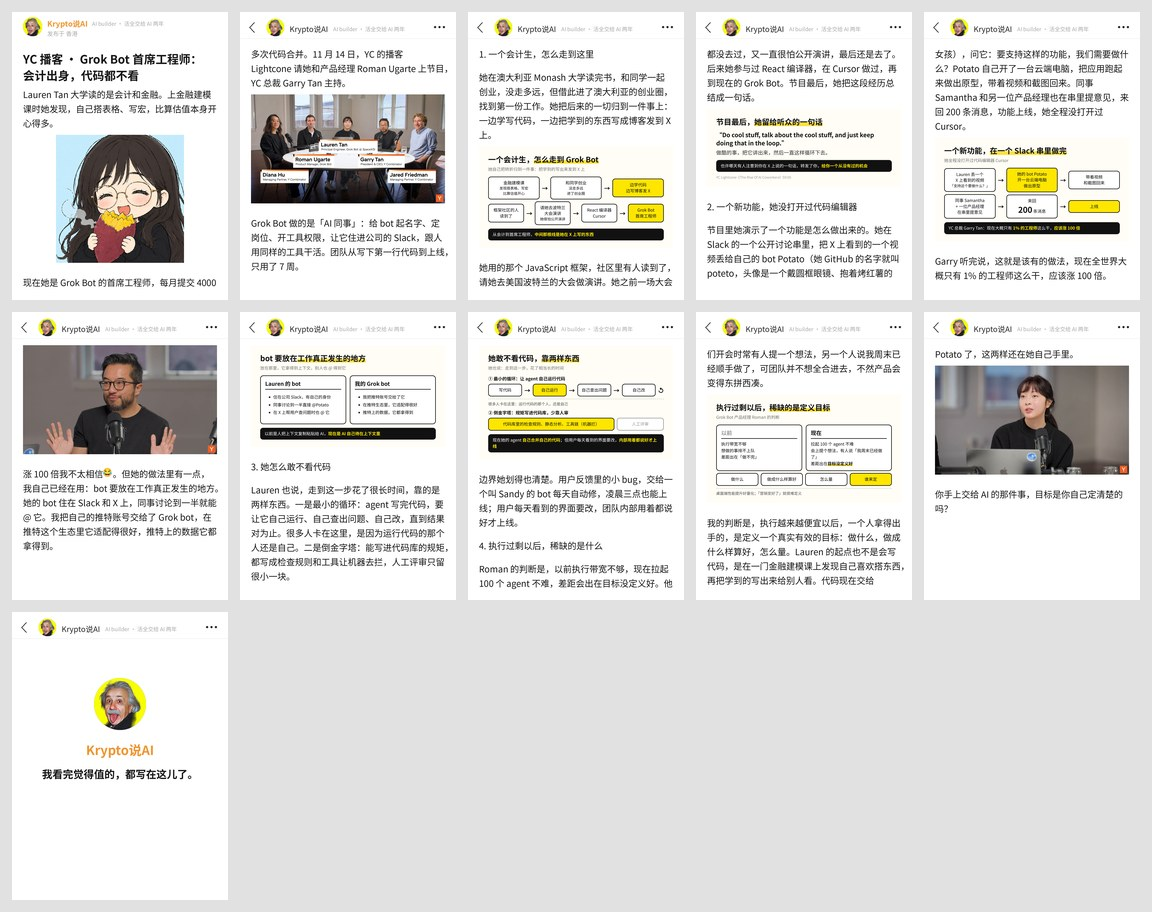
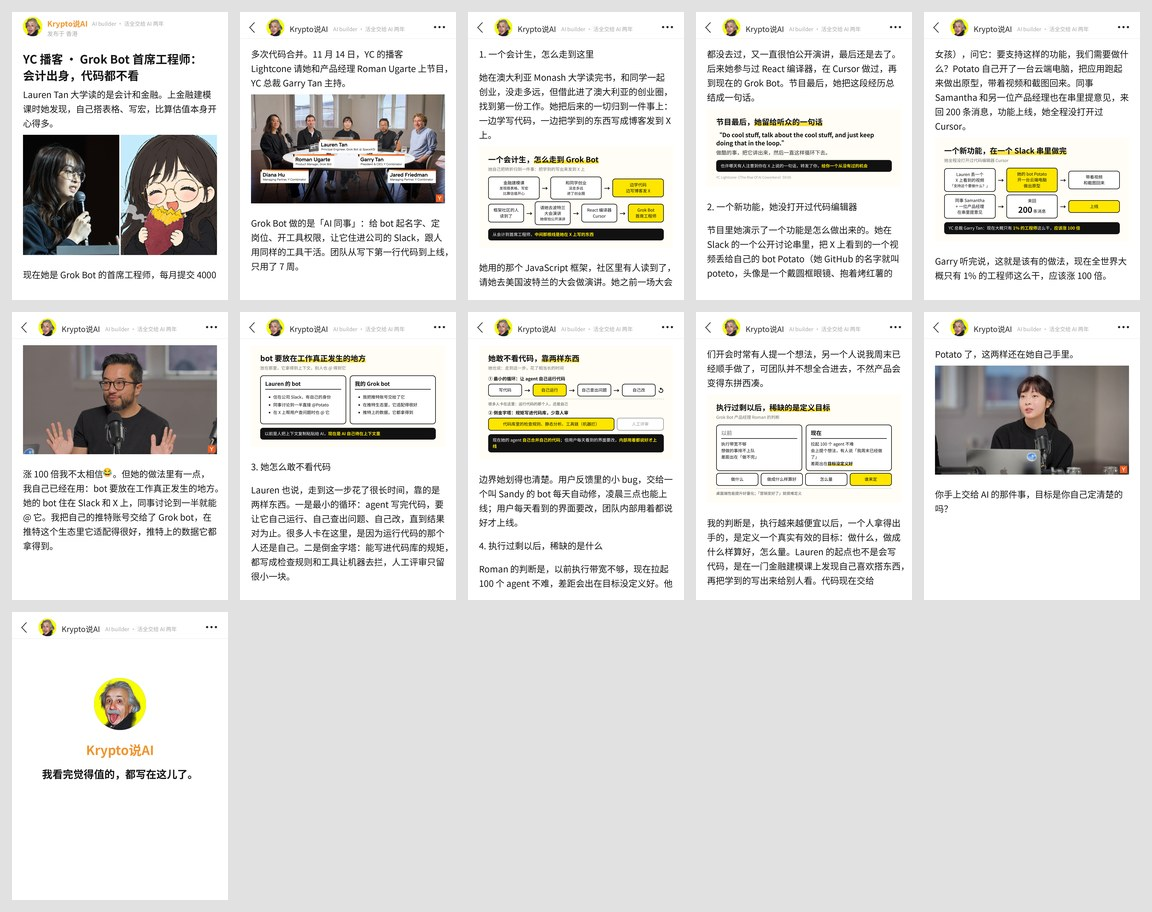
YC Grok Bot 稿：首图拼 React Conf 真人照 + GitHub 动漫头像
Claude-Session: https://claude.ai/code/session_01NaeRTaNK7GFJasw3XzAhi3

Changed region(s): [[0.0, 0.1228, 0.1875, 0.3377]]

diff --git a/CLAUDE.md b/CLAUDE.md
@@ -3,7 +3,7 @@
 这个仓库是小红书账号 **Krypto说AI** 的工作区，也是它的记忆。在这里做的每一篇稿子，先读本页，再读 `账号/档案.md`、`账号/经历库.md` 和 `账号/爆文方法论.md`（10-14 起，选题 / 标题 / 首图 / 原文跟发的发前清单，交付时逐条写过没过）。每次用户说了新的经历、新的观点、新的规则，写回这两份文件并更新本页摘要，不要只留在对话里。
 
 ## 摘要
-- **11-15 YC Lightcone《The Rise Of AI Coworkers》Grok Bot 稿（meme-v2，retell，value 信息 + 框架，立场 D，goal 涨粉，`发布/2026-11-15_yc-grok-bot-coworkers/meme-v2版/`，10 页 + 名片卡，待用户看）**：素材是用户发来的 YC 11-14 播客打包（60 分钟转录 + 20 张 4K 截帧）。先问用户答三条：推特账号交给了 Grok bot，推特生态里它适配好、拿得到数据（经历库 #45）；不信「1% 的工程师应该涨 100 倍」，认同「定义真实有效的目标」（观点库 #38）；主线选 Lauren Tan 转行故事（英文圈很火）。其余默认。起法是主角当年的时刻（金融建模课上发现更爱搭表格写宏），跟上一篇（公众争论）不同。四点：会计生怎么走到这里（`path.png` + 原话卡 `quote.png`）/ 200 条 Slack 消息做完一个功能没开 Cursor（`thread.png` + Garry 截帧）+ 我的推特 Grok bot 对上「bot 放在工作发生的地方」（`where.png`）/ 最小循环 + 倒金字塔（`loop.png`）/ Roman：执行过剩、稀缺的是定义目标（`goal.png`）→ 判断 → 问读者。字幕条上她的头衔是「Principal Engineer, Grok Bot @ SpaceXSI」（看不清），稿里不写 SpaceX / 马斯克。check 0 ✗ 8 ⚠（954 字偏短、专名 / 数字密度是人物访谈稿常态）。标题「Grok首席工程师：会计出身，代码都不看」（20 字）。**用户 11-15 问「首页为什么变成黑底黄字，之前数据显示素材原图更好」**：对，黑底黄字是 a16z 稿被退后我自己做的版式、这篇照搬了；11-10 复盘 v3 大字报首图 8.2% 到 11.3%，爆款首页都是标题 + 两段 + 素材里一张清楚的脸 → 换成 Lauren 近景原截帧 `hero_raw.jpg`（只裁、不加字），黑底版存 `hero_黑底黄字_弃用.jpg`。**用户再改（11-15）：原截帧没冲击力，要她广为流传的「齐刘海 + 圆框眼镜」形象** → 首图换成她 GitHub（poteto）头像插画 `hero_avatar.jpg`（原图 `avatar_github_poteto.png` 460px，放大到 1000），正文 Potato 处补一句「她 GitHub 的名字就叫 poteto，头像是戴圆框眼镜、抱着烤红薯的女孩」。**以后首图默认用素材原图（截帧 / 原文图），只裁剪放大脸，不叠色块大字；机构名和身份写进 headline**
+- **11-15 YC Lightcone《The Rise Of AI Coworkers》Grok Bot 稿（meme-v2，retell，value 信息 + 框架，立场 D，goal 涨粉，`发布/2026-11-15_yc-grok-bot-coworkers/meme-v2版/`，10 页 + 名片卡，待用户看）**：素材是用户发来的 YC 11-14 播客打包（60 分钟转录 + 20 张 4K 截帧）。先问用户答三条：推特账号交给了 Grok bot，推特生态里它适配好、拿得到数据（经历库 #45）；不信「1% 的工程师应该涨 100 倍」，认同「定义真实有效的目标」（观点库 #38）；主线选 Lauren Tan 转行故事（英文圈很火）。其余默认。起法是主角当年的时刻（金融建模课上发现更爱搭表格写宏），跟上一篇（公众争论）不同。四点：会计生怎么走到这里（`path.png` + 原话卡 `quote.png`）/ 200 条 Slack 消息做完一个功能没开 Cursor（`thread.png` + Garry 截帧）+ 我的推特 Grok bot 对上「bot 放在工作发生的地方」（`where.png`）/ 最小循环 + 倒金字塔（`loop.png`）/ Roman：执行过剩、稀缺的是定义目标（`goal.png`）→ 判断 → 问读者。字幕条上她的头衔是「Principal Engineer, Grok Bot @ SpaceXSI」（看不清），稿里不写 SpaceX / 马斯克。check 0 ✗ 8 ⚠（954 字偏短、专名 / 数字密度是人物访谈稿常态）。标题「Grok首席工程师：会计出身，代码都不看」（20 字）。**用户 11-15 问「首页为什么变成黑底黄字，之前数据显示素材原图更好」**：对，黑底黄字是 a16z 稿被退后我自己做的版式、这篇照搬了；11-10 复盘 v3 大字报首图 8.2% 到 11.3%，爆款首页都是标题 + 两段 + 素材里一张清楚的脸 → 换成 Lauren 近景原截帧 `hero_raw.jpg`（只裁、不加字），黑底版存 `hero_黑底黄字_弃用.jpg`。**用户再改（11-15）：原截帧没冲击力，要她广为流传的「齐刘海 + 圆框眼镜」形象** → 首图换成她 GitHub（poteto）头像插画 `hero_avatar.jpg`（原图 `avatar_github_poteto.png` 460px，放大到 1000），正文 Potato 处补一句「她 GitHub 的名字就叫 poteto，头像是戴圆框眼镜、抱着烤红薯的女孩」。**用户再定：要真人照 + 动漫头像拼在一起** → 真人照来自 React Conf 2025 官网相册 `conf.react.dev/gallery/Lauren-Tan-on-stage.jpg`（齐刘海圆框眼镜，4128×6192，存 `reactconf2025_Lauren-Tan-on-stage.jpg`），左真人右动漫并排拼成 `hero_duo.jpg`（1612×1000，不加字）。**以后首图默认用素材原图（截帧 / 原文图），只裁剪放大脸，不叠色块大字；机构名和身份写进 headline**
 - **11-12 Anthropic 创始人上市前公开信稿（meme-v2，观察，value 信息 + 框架，立场 D 默认，goal 流量，`发布/2026-11-12_anthropic-founders-letter/meme-v2版/`，8 页 + 名片卡，待用户看）**：素材是用户发来的 ipo.anthropic.com Founders' letter PDF（8 页，7 位联创署名；原文 `编辑用/source.txt`、页面图 `pages/`）。先问走了，用户答：11-19 上市，有股票资产的人都该看；自己在前沿行业，越头部越容易恶性竞争和不合规，决策者放弃眼前收入很难（经历库 #44）；信息 + 框架；希望他们真做到长期主义；很多人在吵「烧书」说价值观不正，不能以偏概全（观点库 #37）。立场 / 代价没答，默认 D、cost 无。用户说的「史上最大 IPO」没写进稿（核不了 + 极限词）。起法按新学的「身边 / 公众反对意见 → 表态 → 素材当证据」：开头是「烧书」争论（买几百万本纸质书拆开扫描后销毁）→ 拿一件事定性太早 → 公开信 → 「别让公司多值一美元」原文高亮截图 `dollar.png` → 三件事：创始人捐 80% / 员工配捐过半 / 5%+2% 公益基金（`pledge.png`）、两类让股东皱眉的决定（`two.png`、`mythos.png`：Mythos 推迟发布、送约 1 亿美元额度、不放广告、可能放慢）+ 我在前沿行业放弃收入很难、谁能拍板（`gov.png`：LTBT 4 席 / 创始人 3 席）→ 判断 + 回扣烧书 → `check.png` 上市后用季报核三件事。首图 `hero.jpg`：Dario 维基共享照片（TechCrunch Disrupt 2023，CC BY 2.0，图上署了来源）大幅 + 黑底大字 Anthropic + 黄字「上市前，7 位创始人写给股东的公开信」+ 信末 7 人署名截图 + 80% 大字；Daniela 只有旧访谈低清截图，没用。check 0 ✗ 8 ⚠。标题「Anthropic上市前：这些钱我们不赚」（20 字），备选「Anthropic：别让公司多值一美元」「炒股的都该看看Anthropic这封信」「Anthropic创始人：80%股份捐掉」「Anthropic上市前写给股东的信」
 - **11-12 用户定：喜欢小盖「身边人抬杠 → 我不服」的开头**（「拿一点身边的角度切入，创造一点冲突话题感」）→ meme-v2 写稿前先问加第 ⑦ 问「身边有没有人跟你争过这件事、原话、在哪」，writing_guide §3 起法表加「身边人抬杠，我不服」一行（范例小盖蚂蚁灵波稿），changelog 记了。只用用户真说过的对话，不编同学朋友。用户补：学格式不学字句，不搬小盖原句（「我说，肯定不能这么讲」之类），起法表只写机制：身边真人的反对意见 → 表态 → 类比 → 素材当证据回应 → 回到这个人
 - **11-12 对标两份（用户发截图，没改 skill，待用户定）**：① `对标/硅谷大脑成长计划/拆解.md`（17.9K 粉，替读者读完顶级播客，卖订阅 / 社群）：首页 = 两行衬线大标题 + 原片 YouTube 官方缩略图（人脸大、自带英文钩子）+ 两三行导语，没有账号顶栏，所有笔记同一模板；同号里销售 / 表达 / 成长题 187 到 487 赞，AI 题 12 到 89，跟 11-10 结论一致；正文 30 页纯转述没有「我」，不学。待用户定：YouTube 素材首图默认用官方缩略图、首页去顶栏放大标题、固定首页模板统一主页。② `对标/小盖/口吻拆解.md` 第十二批（蚂蚁灵波 LingBot-Touch 软广，12 赞 5 藏）：同学抬杠开头 → 产品第 2 页出场 → 拧瓶盖一个例子用到底 → 行业几种做法再讲它 → 三组对照实验 + 一个数 → 回指旧稿 → 背书挂论文和首席科学家帖子；首页纯文字无图。跟我们 11-04 蚂蚁阿福商单同一集团，下次接商单可照这个骨架（产品当论据不当主角）

diff --git a/发布/2026-11-15_yc-grok-bot-coworkers/meme-v2版/编辑用/draft.md b/发布/2026-11-15_yc-grok-bot-coworkers/meme-v2版/编辑用/draft.md
@@ -9,7 +9,7 @@ cost: 无（用户这篇没答代价）
 keyword: Grok
 keywords: Grok, YC, AI 工程师, 转行, AI agent, AI 同事, Slack
 headline: YC 播客 · Grok Bot 首席工程师：|会计出身，代码都不看
-hero: hero_avatar.jpg
+hero: hero_duo.jpg
 hero_after: 1
 hero_max: 640
 location: 香港
